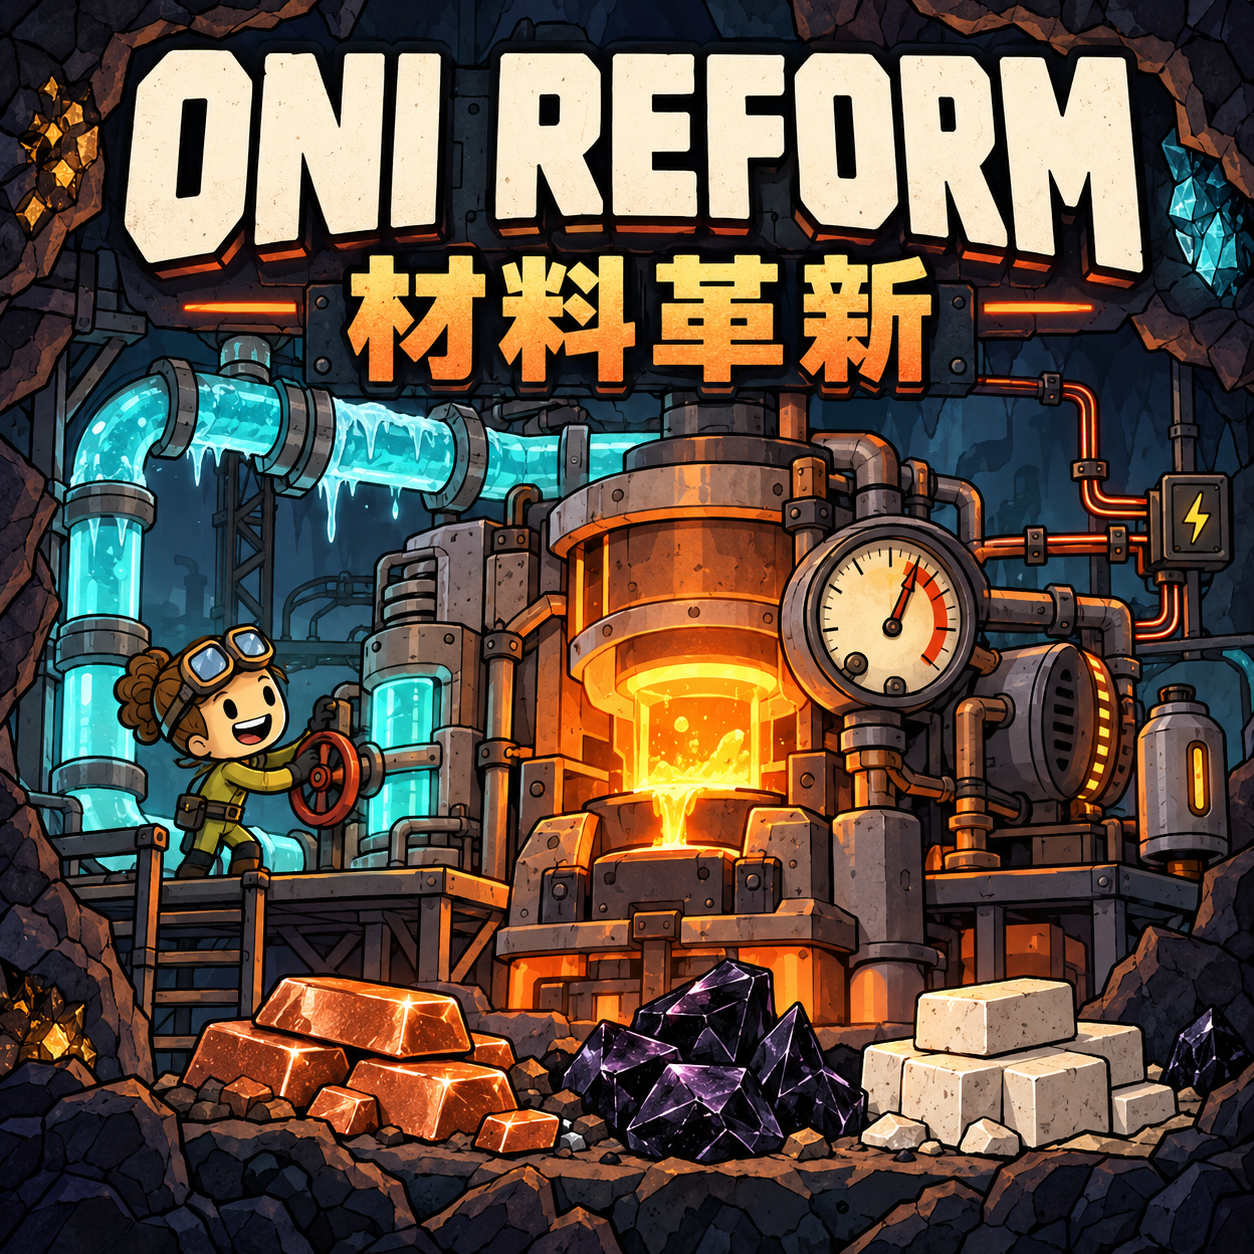
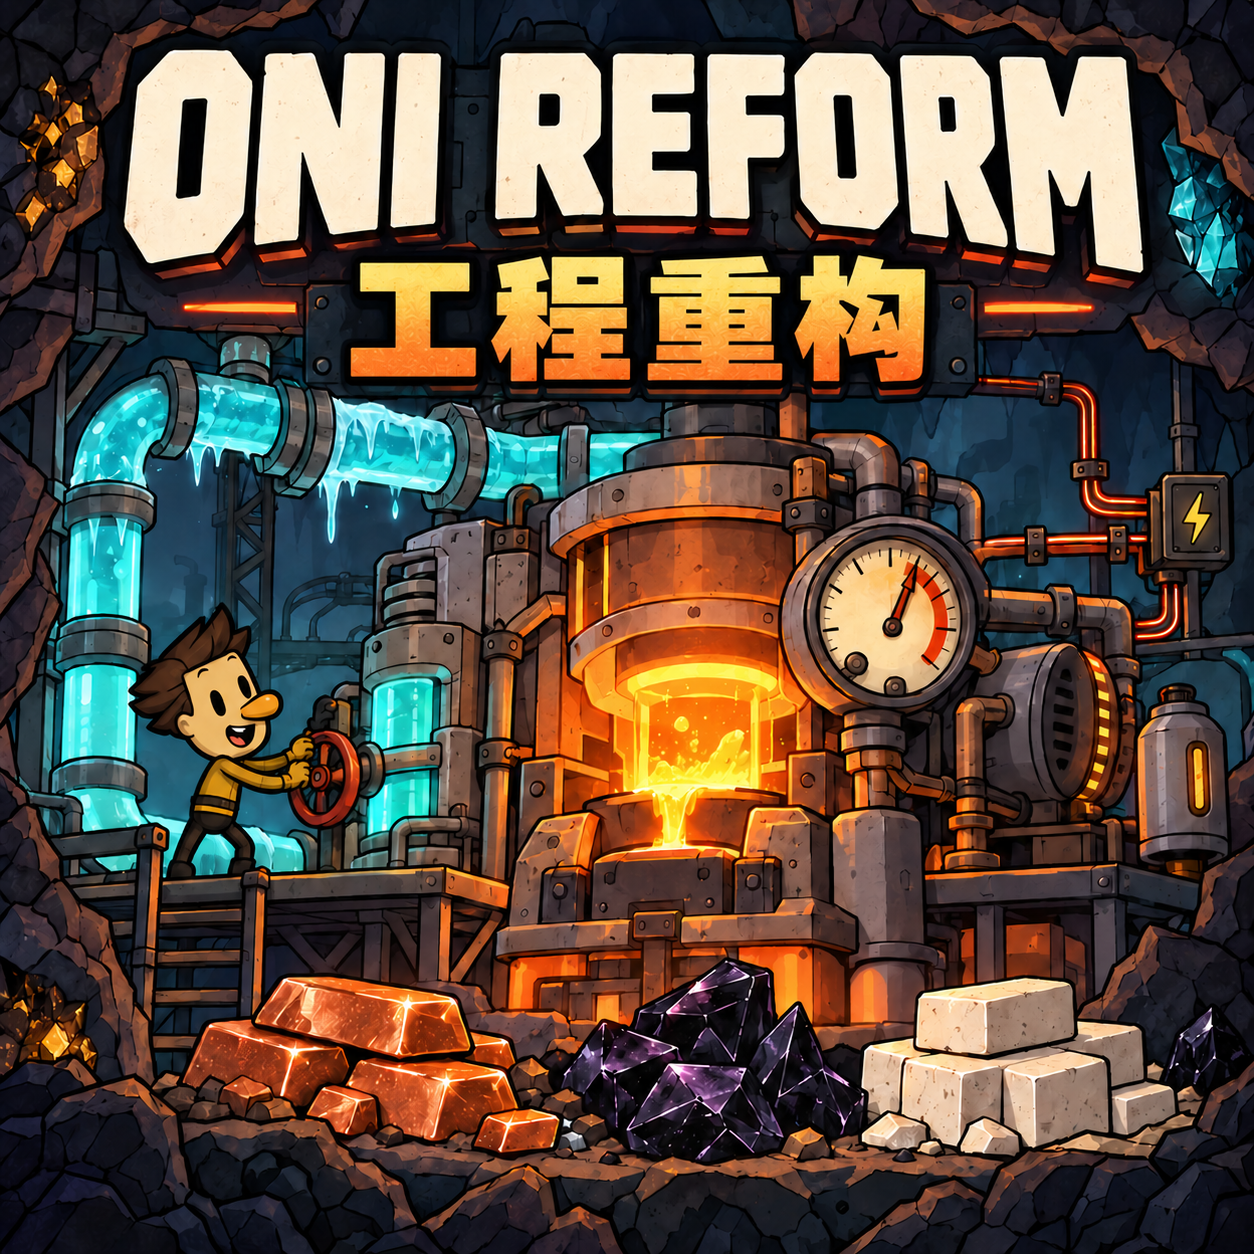
将模组更名为工程重构并更新复制人封面
统一封面、简介、运行标识和验证包的显示名称，保留技术标识与版本。记录两轮封面编辑提示词。

验证：Release构建通过，7779项断言全部通过，构建脚本语法检查通过。

本次改动由 GPT 提交。

diff --git a/MaterialOverhaul/Core/ModInfo.cs b/MaterialOverhaul/Core/ModInfo.cs
@@ -7,7 +7,7 @@ namespace MaterialOverhaul.Core
     public static class ModInfo
     {
         public const string StaticID = "MaterialOverhaul";
-        public const string DisplayName = "Material Overhaul";
+        public const string DisplayName = "ONI Reform · 工程重构";
 #if MATERIAL_OVERHAUL_POWER_ONLY
         public const string Version = "0.0.2";
 #else

diff --git a/docs/美术/封面修订提示词.md b/docs/美术/封面修订提示词.md
@@ -1,0 +1,24 @@
+# 工程重构封面修订提示词
+
+生成方式：内置 `image_gen`。按顺序在上一张封面的基础上进行编辑，最终图片见 [当前封面](../../assets/branding/oni-reform-cover.png)。
+
+
+## 复制人造型修改提示词
+
+```text
+Use case: precise-object-edit.
+Edit the supplied ONI REFORM mod cover. Change ONLY the small character operating the valve in the lower-left quadrant into a clearly recognizable Oxygen Not Included DUPLICANT (复制人), drawn in the game's actual Klei 2D character design language. The current character looks like a generic cute chibi engineer; replace that character design completely with an authentic-looking ONI duplicant.
+Character design: asymmetrical elongated bean-shaped oversized head, conspicuously protruding rounded nose in three-quarter side view, simple black oval eyes, little open comic mouth, short dark brown swept-up hair tuft, tiny narrow torso, skinny rubber-hose limbs, oversized simple hands, mustard orange/yellow duplicant work jumpsuit and dark boots. Thick irregular black ink outline and simple flat 2D color fills, expressive slightly awkward Klei proportions, energetic happy-working expression. The large protruding nose and longer face silhouette are essential. Avoid a round baby face, generic anime/chibi proportions or detailed human anatomy. Do not make the character a robot or astronaut.
+Keep the same character location, approximate bounding size, stance on the platform, and hands operating the red valve. Integrate existing warm and cool lighting subtly while keeping the character's simple flat cartoon graphic identity.
+Invariants: preserve the refinery, valve, pipe layout, foreground materials, rocky border, exact square framing, composition, colors and all typography. Preserve exactly the text "ONI REFORM" and "材料革新". Add no new text, characters, logos, symbols or objects. This is a surgical character replacement; everything outside the character should remain as close to the source as possible.
+```
+
+## 当前封面标题修改提示词
+
+```text
+Use case: text-localization.
+Edit this square illustrated mod cover. Change ONLY the four large Chinese title characters in the upper-middle sign from "材料革新" to exactly "工程重构".
+Text (verbatim): "工程重构". Four characters in this exact order: 工 程 重 构.
+Keep the same large bold chunky industrial Chinese typography, warm yellow-to-orange fill, subtle texture, thick black outline, dark metal sign backing, text position and overall size. It must be legible, well spaced and balanced.
+Preserve exactly the large English title "ONI REFORM". Preserve the Oxygen Not Included duplicant operating the red valve at lower left, including the big protruding nose, tufted dark hair, flat cartoon style, pose and size. Preserve all refinery machinery, gauge, wiring, turquoise coolant pipes, orange furnace, foreground materials and rock border, composition and square framing. Add no other text. This is a precise title replacement; change nothing else.
+```

diff --git a/docs/美术/封面生成说明.md b/docs/美术/封面生成说明.md
@@ -1,14 +1,16 @@
-# 材料革新封面
+# 工程重构封面
 
 - 生成日期：2026-10-22。
 - 生成方式：内置 `image_gen`。
 - 实际尺寸：1254 × 1254 像素，PNG；提示词中的期望尺寸为 1536 × 1536。
-- 图片：[ONI REFORM · 材料革新](../../assets/branding/oni-reform-cover.png)。
+- 图片：[ONI REFORM · 工程重构](../../assets/branding/oni-reform-cover.png)。
 - 内容：地下工业车间、精炼设备、冷热管线、铜线与不同材料，体现材料选择与工程联系。
 - 用途：Mod 方形封面；仅保存美术资产，尚未接入部署或上传创意工坊。
 - 已目视检查标题、中文文字、构图与主题。
+- 2026-10-22 修订：人物改为《缺氧》复制人造型，中文标题改为「工程重构」，以涵盖材料、工业温控、电力及房间等整体改造方向；技术标识 `MaterialOverhaul` 保持不变。
+- 当前图片的两轮编辑提示词见 [[封面修订提示词]]。
 
-## 完整生成提示词
+## 初版生成提示词（历史名称）
 
 ```text
 Use case: stylized-concept

diff --git a/docs/Mod玩法设计和修改/ONI Reform 总体设计.md b/docs/Mod玩法设计和修改/ONI Reform 总体设计.md
@@ -1,5 +1,7 @@
 # ONI Reform 总体设计
 
+Mod 对外名称为 **ONI Reform · 工程重构**（原名「材料革新」），涵盖材料参与建筑运算及电力、房间、辐射等系统改造；技术标识仍使用 `MaterialOverhaul`。
+
 本 Mod 不改材料数量，也不是单纯重平衡现有数值，而是改变**材料属性如何参与建筑、环境和系统运算**，让原本差异不明显的材料选择真正变成工程选择。
 
 本文是总体设计，只讲目标、原则、各系统的设计意图、路线与交付状态。规则边界与全部数值在 4 份分设计里，逐版本的实现、回归与验收记录在 `docs/开发计划/` 的版本开发计划里。

diff --git a/README.md b/README.md
@@ -1,4 +1,4 @@
-# ONI-Reform · Material Overhaul（材料革新）
+# ONI Reform · 工程重构
 
 《缺氧》的材料与工程系统模组。工业版让材料参与温控、加热和磨损；电力版让实际线路、导线容量和材料电导率共同决定输电损耗。两系统可独立构建和验证。
 
